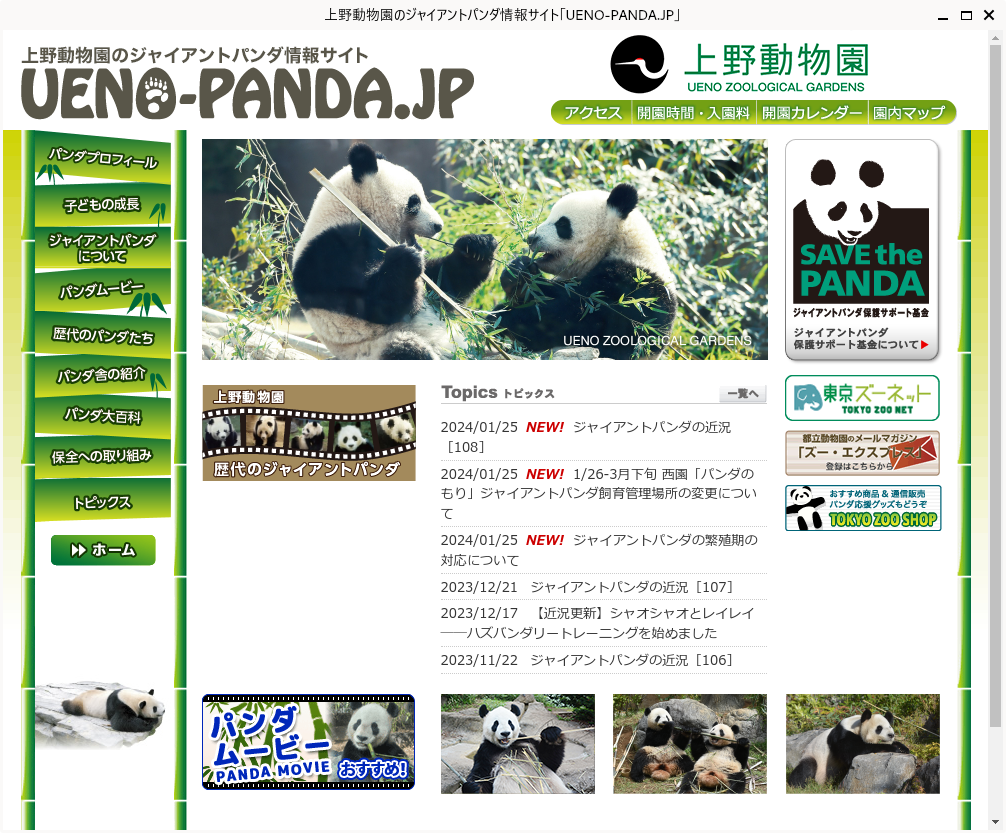
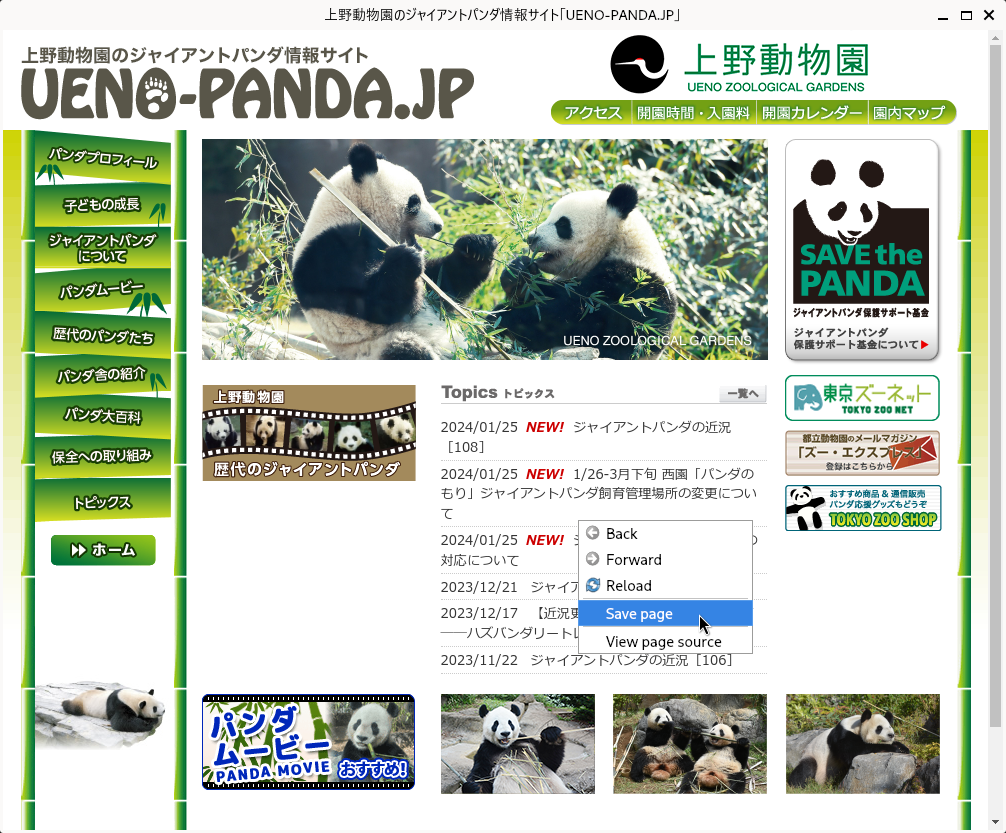
update

Changed region(s): [[0.5547, 0.6242, 0.7704, 0.7803], [0.9861, 0.9988, 1.0, 1.0]]

diff --git a/qt_webenginepage_3.py b/qt_webenginepage_3.py
@@ -1,0 +1,60 @@
+#!/usr/bin/env python
+# coding: utf-8
+import sys
+
+from PySide6.QtCore import QFileInfo, QUrl
+from PySide6.QtGui import QAction
+from PySide6.QtWebEngineCore import QWebEngineDownloadRequest, QWebEnginePage
+from PySide6.QtWebEngineWidgets import QWebEngineView
+from PySide6.QtWidgets import QApplication, QFileDialog
+
+
+class Example(QWebEngineView):
+    def __init__(self, url: QUrl):
+        super().__init__()
+        self.status_load = False
+        self.loadFinished.connect(self.on_load_finished)
+        self.resize(1000, 800)
+
+        self.load(url)
+        self.page().titleChanged.connect(self.setWindowTitle)
+        self.page().profile().downloadRequested.connect(
+            self.on_download_requested
+        )
+
+    def createWindow(self, wwtype: QWebEnginePage.WebWindowType):
+        action: QAction = self.pageAction(QWebEnginePage.WebAction.ViewSource)
+        if action.isEnabled():
+            self.page().toHtml(self.print_html)
+
+    def on_download_requested(self, download: QWebEngineDownloadRequest):
+        print(type(download))
+        # Reference:
+        # https://stackoverflow.com/questions/55963931/how-to-download-csv-file-with-qwebengineview-and-qurl
+        old_path = download.url().path()  # download.path()
+        suffix = QFileInfo(old_path).suffix()
+        path, _ = QFileDialog.getSaveFileName(
+            self, "Save File", old_path, "*." + suffix
+        )
+        if path:
+            download.setDownloadDirectory(path)
+            download.accept()
+
+    def on_load_finished(self, flag: bool):
+        self.status_load = flag
+
+    @staticmethod
+    def print_html(html: str):
+        print(html)
+
+
+def main(url: QUrl):
+    app = QApplication()
+    ex = Example(url)
+    ex.show()
+    sys.exit(app.exec())
+
+
+if __name__ == '__main__':
+    url_init = QUrl('https://www.ueno-panda.jp/')
+    main(url_init)

diff --git a/qt_webenginepage_2.py b/qt_webenginepage_2.py
@@ -2,41 +2,23 @@
 # coding: utf-8
 import sys
 
-from PySide6.QtCore import QUrl, QFileInfo
-from PySide6.QtGui import QAction
-from PySide6.QtWebEngineCore import QWebEnginePage, QWebEngineDownloadRequest
+from PySide6.QtCore import QUrl
 from PySide6.QtWebEngineWidgets import QWebEngineView
-from PySide6.QtWidgets import QApplication, QFileDialog
+from PySide6.QtWidgets import QApplication
 
 
 class Example(QWebEngineView):
     def __init__(self, url: QUrl):
         super().__init__()
+        self.loadFinished.connect(self.on_load_finished)
         self.resize(1000, 800)
 
         self.load(url)
         self.page().titleChanged.connect(self.setWindowTitle)
-        self.page().profile().downloadRequested.connect(
-            self.on_downloadRequested
-        )
 
-    def createWindow(self, wwtype: QWebEnginePage.WebWindowType):
-        action: QAction = self.pageAction(QWebEnginePage.WebAction.ViewSource)
-        if action.isEnabled():
+    def on_load_finished(self, flag: bool):
+        if flag:
             self.page().toHtml(self.print_html)
-
-    def on_downloadRequested(self, download: QWebEngineDownloadRequest):
-        print(type(download))
-        # Reference:
-        # https://stackoverflow.com/questions/55963931/how-to-download-csv-file-with-qwebengineview-and-qurl
-        old_path = download.url().path()  # download.path()
-        suffix = QFileInfo(old_path).suffix()
-        path, _ = QFileDialog.getSaveFileName(
-            self, "Save File", old_path, "*." + suffix
-        )
-        if path:
-            download.setDownloadDirectory(path)
-            download.accept()
 
     @staticmethod
     def print_html(html: str):
